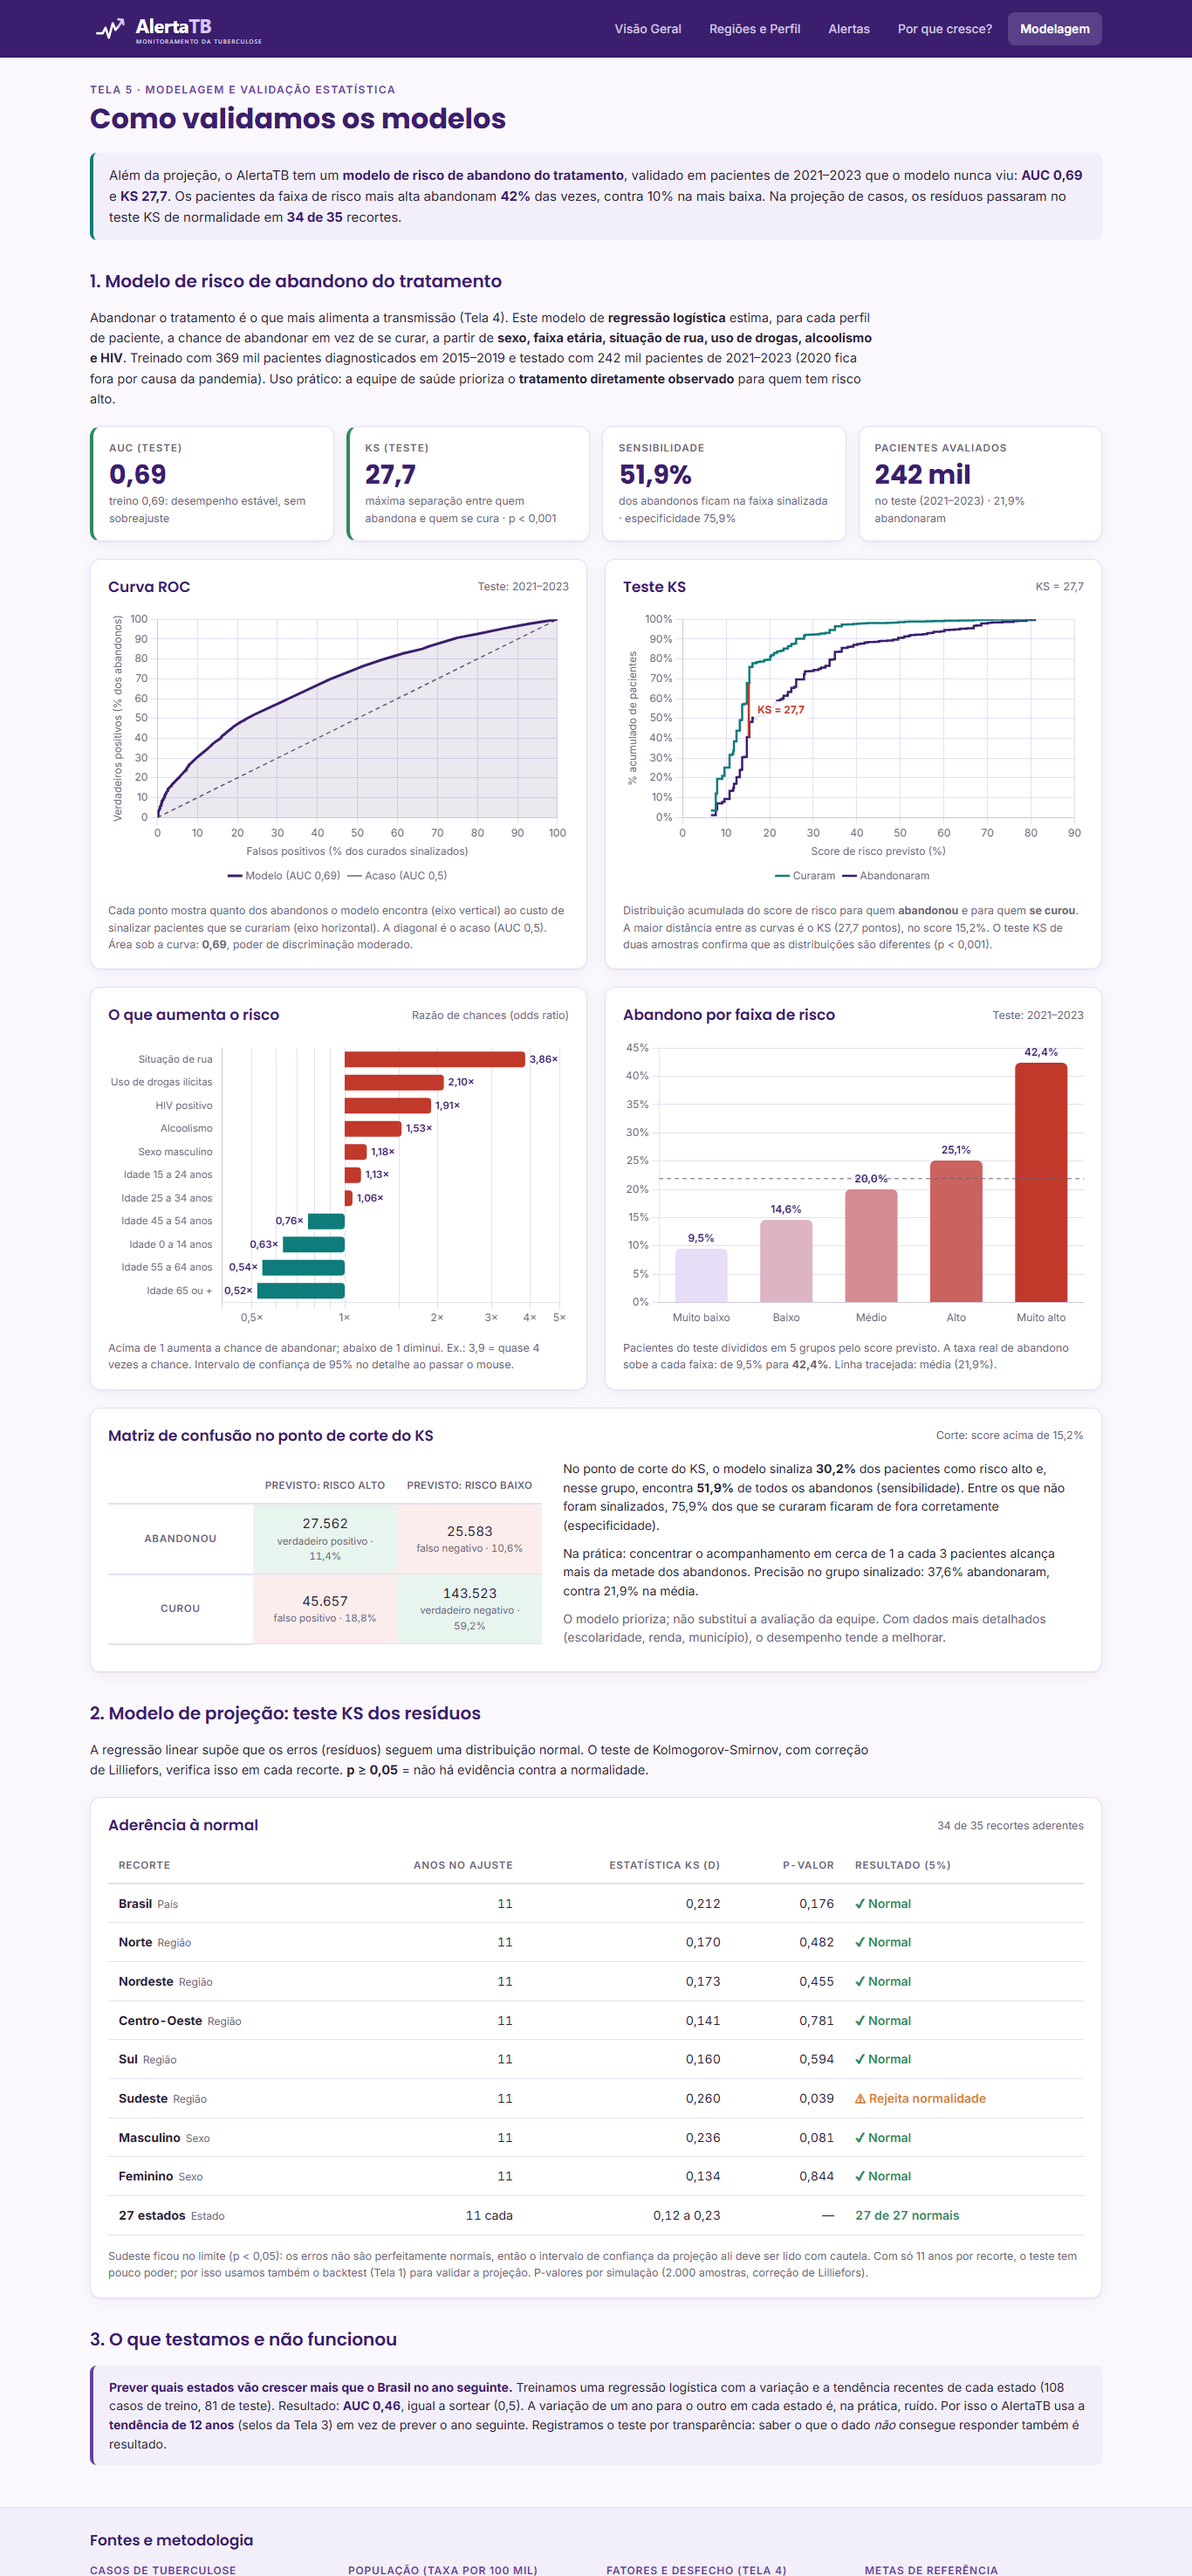
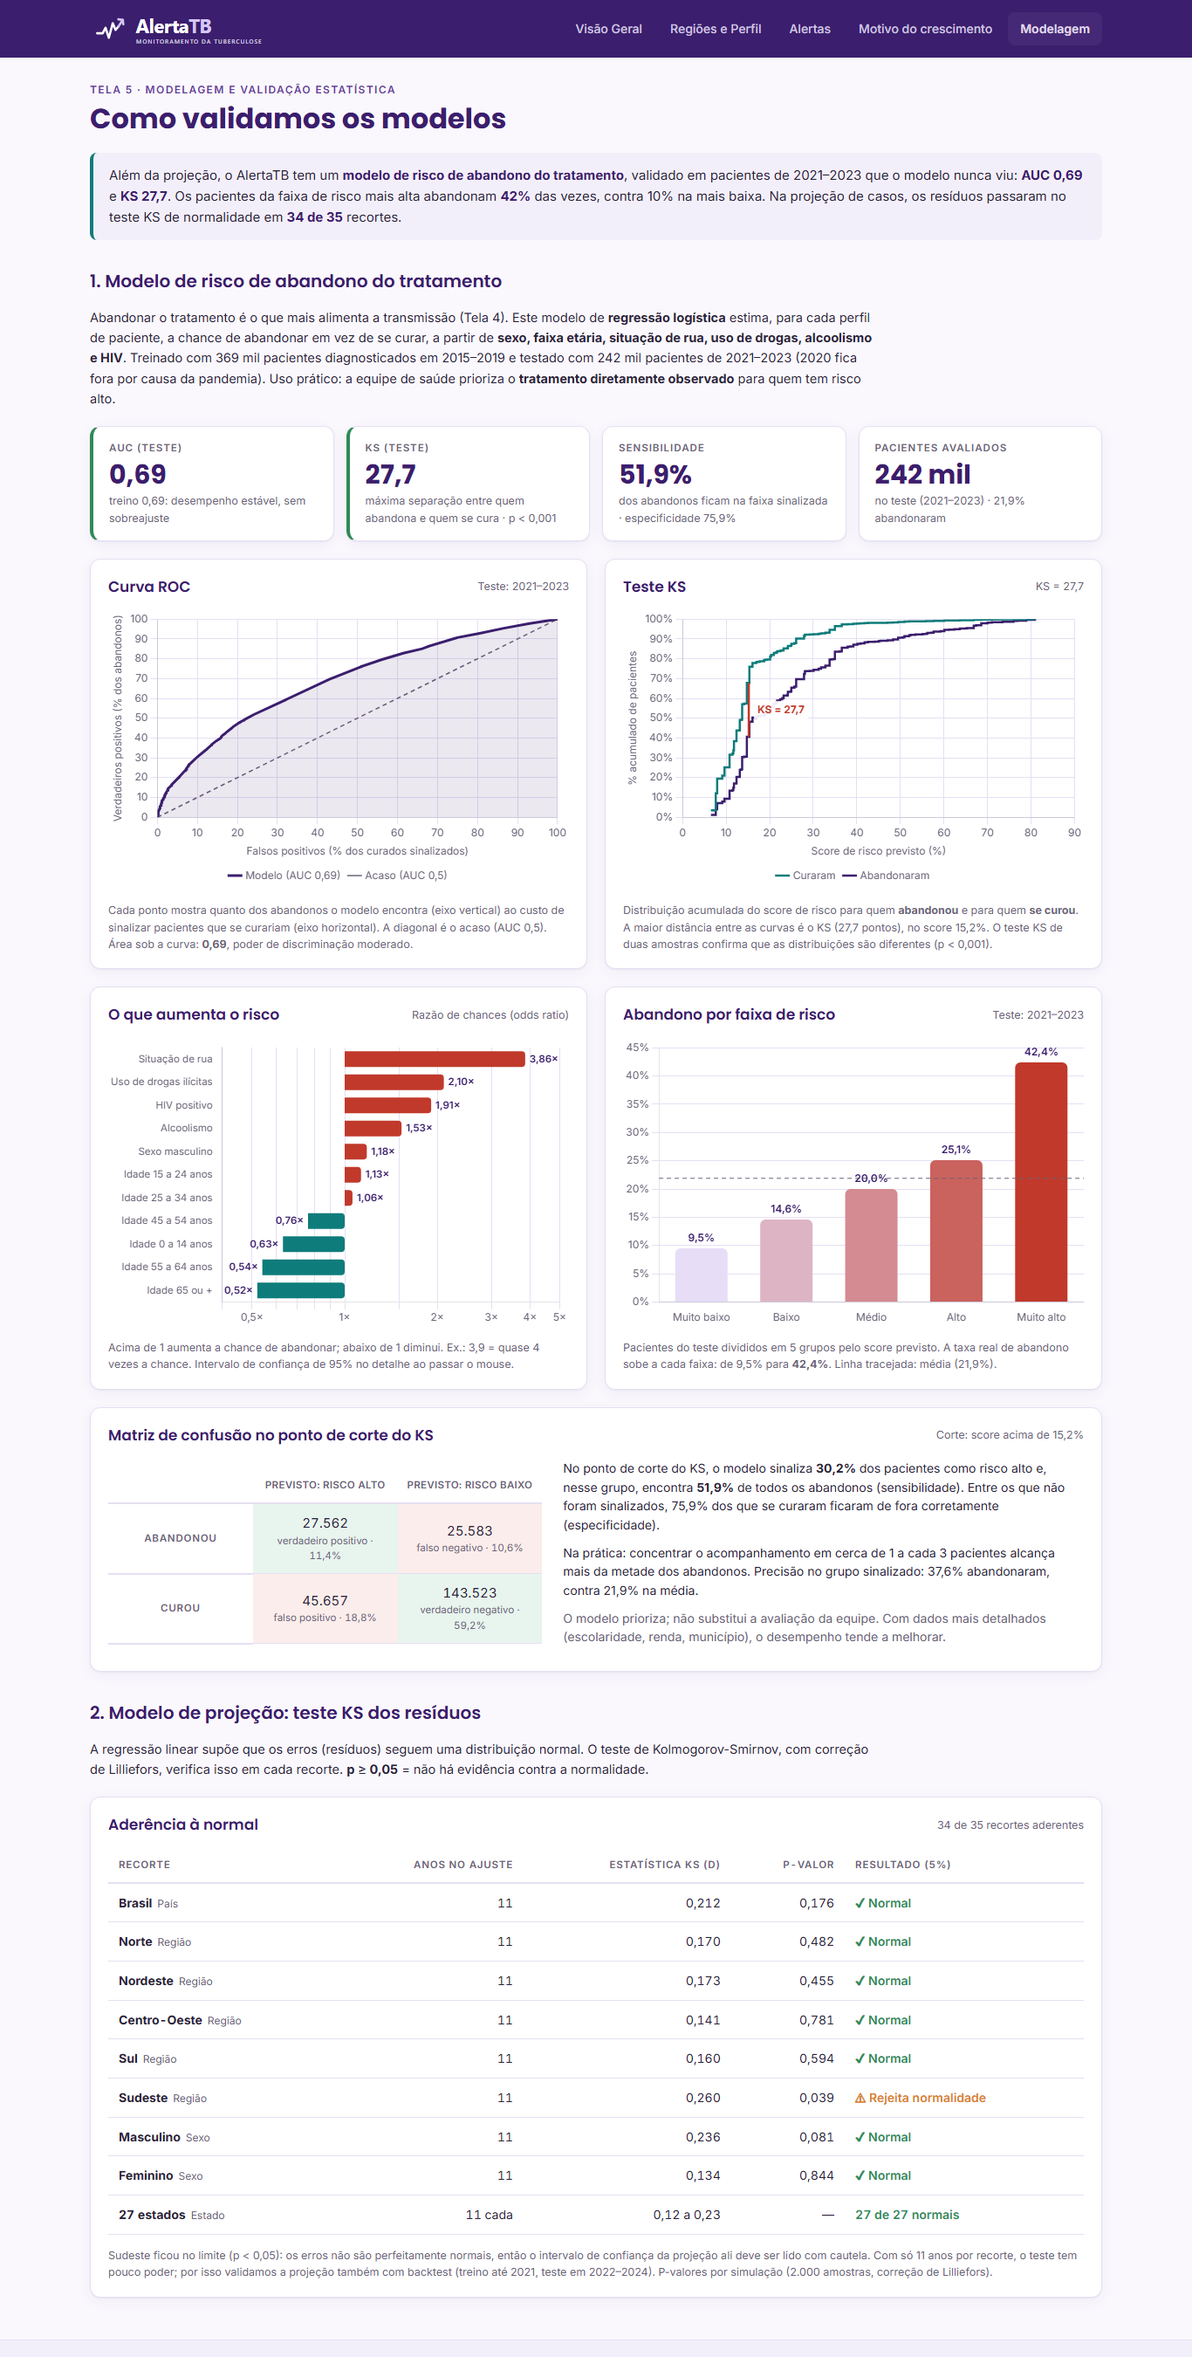
refactor(web): aba "Motivo do crescimento" e remoção de notas explicativas
- aba "Por que cresce?" renomeada para "Motivo do crescimento"
- removidas as notas "Como ler a projeção" (Tela 1), "Como ler esta tela"
  (Tela 4) e a seção "O que testamos e não funcionou" (Tela 5)
- README, roteiro do vídeo e prints atualizados

diff --git a/web/js/app.js b/web/js/app.js
@@ -111,20 +111,6 @@
     document.getElementById('selo-recorte').outerHTML =
       `<span class="selo ${CLASSE_SELO[r.status]}" id="selo-recorte">${r.status}</span>`;
 
-    // Nota sobre o modelo (transparência)
-    const erros = Object.values(r.backtest_erro_pct);
-    const erroMedio = erros.reduce((a, b) => a + b, 0) / erros.length;
-    const anosBt = Object.keys(r.backtest_erro_pct);
-    let texto = `<strong>Como ler a projeção:</strong> regressão linear sobre ${ANOS[0]}–${ANO_FINAL}, sem ${ANOS_ATIPICOS.join(', ')} ` +
-      `(subnotificação na pandemia). R² = ${dec(r.r2, 2)}: quanto mais perto de 1, mais consistente é a tendência. `;
-    if (erroMedio < -3) {
-      texto += `Testando o modelo com dados até 2021, ele previu em média <strong>${dec(Math.abs(erroMedio))}% a menos</strong> ` +
-        `do que de fato aconteceu em ${anosBt[0]}–${anosBt[anosBt.length - 1]}. Ou seja, a projeção é <strong>conservadora</strong>: o cenário real tende a ser pior.`;
-    } else {
-      texto += `Testado com dados até 2021, o modelo errou em média ${dec(Math.abs(erroMedio))}% em ${anosBt[0]}–${anosBt[anosBt.length - 1]}.`;
-    }
-    document.getElementById('nota-modelo').innerHTML = texto;
-
     desenharLinha(r);
   }
 
@@ -590,7 +576,7 @@
     : '<li>✔ Todos os anos conferem: soma das regiões e soma por sexo = total do Brasil.</li>';
 
   // =========================================================
-  // TELA 4 — Por que cresce? (fatores associados, dados do TABNET)
+  // TELA 4 — Motivo do crescimento (fatores associados, dados do TABNET)
   // =========================================================
   function renderFatores() {
     const F = DADOS.fatores;
@@ -766,11 +752,6 @@
       </div>`;
     }).join('');
 
-    // ---- cuidados de leitura ----
-    document.getElementById('nota-fatores-leitura').innerHTML =
-      `<strong>Como ler esta tela:</strong> os números mostram <strong>associação, não causa</strong>. Parte da alta também vem de ` +
-      `<strong>diagnosticar melhor</strong>: com mais testes (como o teste rápido molecular e o de HIV), aparecem casos que antes passavam despercebidos. ` +
-      `Fonte: ${F.fonte}. Mesma consulta ao TABNET usada nas outras telas.`;
   }
 
   // =========================================================
@@ -979,16 +960,8 @@
     const falhas = res.filter(r => !r.normal).map(r => r.recorte);
     document.getElementById('nota-residuos').innerHTML =
       `${falhas.length ? `${falhas.join(', ')} ficou no limite (p < 0,05): os erros não são perfeitamente normais, então o intervalo de confiança da projeção ali deve ser lido com cautela. ` : ''}` +
-      `Com só 11 anos por recorte, o teste tem pouco poder; por isso usamos também o backtest (Tela 1) para validar a projeção. P-valores por simulação (2.000 amostras, correção de Lilliefors).`;
+      `Com só 11 anos por recorte, o teste tem pouco poder; por isso validamos a projeção também com backtest (treino até 2021, teste em 2022–2024). P-valores por simulação (2.000 amostras, correção de Lilliefors).`;
 
-    // ---------- o que não funcionou ----------
-    const C = M.teste_crescimento_estados;
-    document.getElementById('nota-nao-funcionou').innerHTML = C
-      ? `<strong>Prever quais estados vão crescer mais que o Brasil no ano seguinte.</strong> Treinamos uma regressão logística com a variação e a tendência recentes de cada estado ` +
-        `(${C.n_treino} casos de treino, ${C.n_teste} de teste). Resultado: <strong>AUC ${dec(C.auc_teste, 2)}</strong>, igual a sortear (0,5). ` +
-        `A variação de um ano para o outro em cada estado é, na prática, ruído. Por isso o AlertaTB usa a <strong>tendência de 12 anos</strong> (selos da Tela 3) ` +
-        `em vez de prever o ano seguinte. Registramos o teste por transparência: saber o que o dado <em>não</em> consegue responder também é resultado.`
-      : '';
   }
 
   // =========================================================

diff --git a/web/index.html b/web/index.html
@@ -22,7 +22,7 @@
         <a href="#visao-geral" data-tela="visao-geral">Visão Geral</a>
         <a href="#regioes" data-tela="regioes">Regiões e Perfil</a>
         <a href="#alertas" data-tela="alertas">Alertas</a>
-        <a href="#fatores" data-tela="fatores">Por que cresce?</a>
+        <a href="#fatores" data-tela="fatores">Motivo do crescimento</a>
         <a href="#modelagem" data-tela="modelagem">Modelagem</a>
       </nav>
     </div>
@@ -90,7 +90,6 @@
         </div>
       </div>
 
-      <aside class="nota" id="nota-modelo"></aside>
     </section>
 
     <!-- ============ TELA 2 — REGIÕES E PERFIL ============ -->
@@ -239,7 +238,7 @@
       <div class="tela-cabecalho">
         <div>
           <p class="sobretitulo">Tela 4 · Fatores associados ao crescimento</p>
-          <h1 id="t4">Por que os casos estão crescendo?</h1>
+          <h1 id="t4">Motivo do crescimento dos casos</h1>
         </div>
       </div>
 
@@ -277,7 +276,6 @@
         <div class="comparativo" id="cards-fatores"></div>
       </div>
 
-      <aside class="nota" id="nota-fatores-leitura"></aside>
     </section>
 
     <!-- ============ TELA 5 — MODELAGEM ============ -->
@@ -337,8 +335,6 @@
         <p class="pequeno" id="nota-residuos"></p>
       </div>
 
-      <h2 class="secao-titulo">3. O que testamos e não funcionou</h2>
-      <aside class="nota" id="nota-nao-funcionou"></aside>
     </section>
 
   </main>

diff --git a/README.md b/README.md
@@ -133,7 +133,7 @@ data/raw/tabnet/*.csv                     (TABNET) ◄─┘
 data/processed/dados_painel.json  +  web/js/dados.js
         │
         ▼  lido pelo navegador
-web/index.html  →  Visão Geral · Regiões e Perfil · Alertas · Por que cresce? · Modelagem
+web/index.html  →  Visão Geral · Regiões e Perfil · Alertas · Motivo do crescimento · Modelagem
 ```
 
 ---
@@ -143,7 +143,7 @@ web/index.html  →  Visão Geral · Regiões e Perfil · Alertas · Por que cre
 **Fluxo principal:** o gestor abre o painel, vê os indicadores do Brasil, filtra por região, estado ou sexo e vê o gráfico atualizar. Na tela de Alertas, encontra as regiões que exigem ação e, com um clique, abre o gráfico daquela região.
 
 ### 1. Visão Geral (Dashboard Executivo)
-Filtro por recorte, 5 indicadores (casos 2024, crescimento 2013–2024, novos casos por ano, projeção 2034 e **taxa por 100 mil habitantes**), gráfico do histórico com a projeção tracejada (alterna entre **casos** e **por 100 mil hab.**) e uma nota explicando como ler o modelo.
+Filtro por recorte, 5 indicadores (casos 2024, crescimento 2013–2024, novos casos por ano, projeção 2034 e **taxa por 100 mil habitantes**), gráfico do histórico com a projeção tracejada (alterna entre **casos** e **por 100 mil hab.**).
 
 ![Tela 1 — Visão Geral](assets/prints/tela1-visao-geral.png)
 
@@ -157,16 +157,15 @@ Alerta de tendência crítica, ranking de risco com selos *Crítico / Atenção 
 
 ![Tela 3 — Alertas](assets/prints/tela3-alertas.png)
 
-### 4. Por que cresce? (fatores associados)
-Responde à pergunta que a banca e os gestores vão fazer. Mostra o que cresceu mais rápido que o total de casos (abandono, retorno após abandono, situação de rua, drogas, alcoolismo, óbitos, HIV, sistema prisional), a queda da cura e a alta do abandono comparadas às metas da OMS, e a distância da **meta nacional de 2035** (menos de 10 casos novos por 100 mil). Deixa claro que é **associação, não causa**, e que parte da alta vem de diagnosticar melhor.
+### 4. Motivo do crescimento (fatores associados)
+Responde à pergunta que a banca e os gestores vão fazer. Mostra o que cresceu mais rápido que o total de casos (abandono, retorno após abandono, situação de rua, drogas, alcoolismo, óbitos, HIV, sistema prisional), a queda da cura e a alta do abandono comparadas às metas da OMS, e a distância da **meta nacional de 2035** (menos de 10 casos novos por 100 mil).
 
-![Tela 4 — Por que cresce?](assets/prints/tela4-por-que-cresce.png)
+![Tela 4 — Motivo do crescimento](assets/prints/tela4-motivo-do-crescimento.png)
 
 ### 5. Modelagem e validação estatística
 Mostra como os modelos foram testados:
 - **Modelo de risco de abandono do tratamento** (regressão logística com sexo, idade, situação de rua, drogas, álcool e HIV), treinado com 369 mil pacientes de 2015–2019 e testado com 242 mil de 2021–2023: **curva ROC (AUC 0,69)**, **teste KS (KS 27,7; p < 0,001)**, matriz de confusão, razões de chance (situação de rua = 3,9× a chance de abandonar) e faixas de risco (de 9,5% a 42% de abandono).
 - **Teste KS de normalidade** (com correção de Lilliefors) nos resíduos da regressão de projeção: 34 de 35 recortes aderentes.
-- **O que não funcionou:** prever quais estados vão crescer mais que o Brasil no ano seguinte (AUC 0,46), registrado por transparência.
 
 ![Tela 5 — Modelagem](assets/prints/tela5-modelagem.png)
 

diff --git a/docs/checkpoint2/roteiro_video.md b/docs/checkpoint2/roteiro_video.md
@@ -17,7 +17,6 @@
 **Tela:** passar o mouse nos indicadores → passar o mouse no gráfico → clicar em **"Por 100 mil hab."** → voltar para **"Casos"**.
 
 > "Na Visão Geral, o gestor vê os números principais e a tendência. A linha tracejada é a projeção feita com regressão linear em Python: se nada mudar, serão mais de 132 mil casos em 2034. O ponto cinza é 2020, quando a pandemia reduziu os diagnósticos; por isso ele fica fora do cálculo. Aqui eu troco para a taxa por 100 mil habitantes: ela subiu 23%, então a alta não é só porque a população cresceu."
-> *(opcional)* "Abaixo, explicamos o modelo: testado com dados reais, ele é conservador. O cenário real tende a ser pior."
 
 ## 1:00–1:45 · Regiões e Perfil *(Integrante 3)*
 **Tela:** mostrar a frase-resumo → trocar o período para **2019 → 2020** → voltar para **2013 → 2024** → rolar até o mapa → clicar no **Amazonas**.
@@ -30,8 +29,8 @@
 
 > "Na tela de Alertas, cada recorte recebe um selo: Crítico, Atenção ou Moderado, calculado pela velocidade e pela consistência do crescimento. Assim, o gestor sabe onde agir primeiro. Com um clique, abre o gráfico e a projeção daquele estado."
 
-## 2:15–2:45 · Por que cresce? + Modelagem *(Integrante 5)*
-**Tela:** abrir **"Por que cresce?"** → mostrar os 4 indicadores → rolar pelo gráfico de fatores e o da meta de 2035.
+## 2:15–2:45 · Motivo do crescimento + Modelagem *(Integrante 5)*
+**Tela:** abrir **"Motivo do crescimento"** → mostrar os 4 indicadores → rolar pelo gráfico de fatores e o da meta de 2035.
 
 > "E por que os casos crescem? Cruzamos outros dados do DATASUS. A cura caiu de 70% para 58%, longe da meta de 85% da OMS, e o abandono do tratamento chegou a 19%. Quem abandona continua transmitindo. Também cresceram os casos em pessoas em situação de rua e que usam drogas. Hoje são quase 40 casos novos por 100 mil habitantes; a meta do Brasil para 2035 é menos de 10."
 > **Tela:** abrir **"Modelagem"** e mostrar a curva ROC e o gráfico de faixas de risco.

diff --git a/docs/checkpoint2/README.md b/docs/checkpoint2/README.md
@@ -20,7 +20,7 @@ _Registrar aqui os retornos do Professor Mentor e o que foi ajustado._
 - **Base conferida no TABNET:** a planilha tinha erros de digitação em 2013 e 2015 (ex.: total 85.212 → 86.212; Sudeste 36.467 → 38.467). A série agora é baixada direto do DATASUS por script, com conferência automática das somas.
 - **Modelo mais robusto:** 2020 (subnotificação na pandemia) saiu do ajuste da regressão, e o R² do Brasil subiu de 0,71 para 0,84. Backtest mostra que a projeção é conservadora.
 - **Regressão em Python** (antes só no Excel), gerando os dados que o site lê.
-- **Painel web com 4 telas** publicado no GitHub Pages: Visão Geral, Regiões e Perfil, Alertas e Por que cresce?.
+- **Painel web com 4 telas** publicado no GitHub Pages: Visão Geral, Regiões e Perfil, Alertas e Motivo do crescimento (mais a aba Modelagem).
 - **Taxa por 100 mil habitantes** (IBGE), que mostra que a alta é real e não só efeito do aumento da população (+22,9% desde 2013).
 - **Fatores associados** (abandono, desfecho, HIV, situação de rua, drogas, alcoolismo, PPL) e comparação com a **meta nacional de 2035**.
 - **Os 27 estados** (antes só SP e RJ): mapa interativo na Tela 2 e todos no ranking de alertas e no filtro da Visão Geral.
